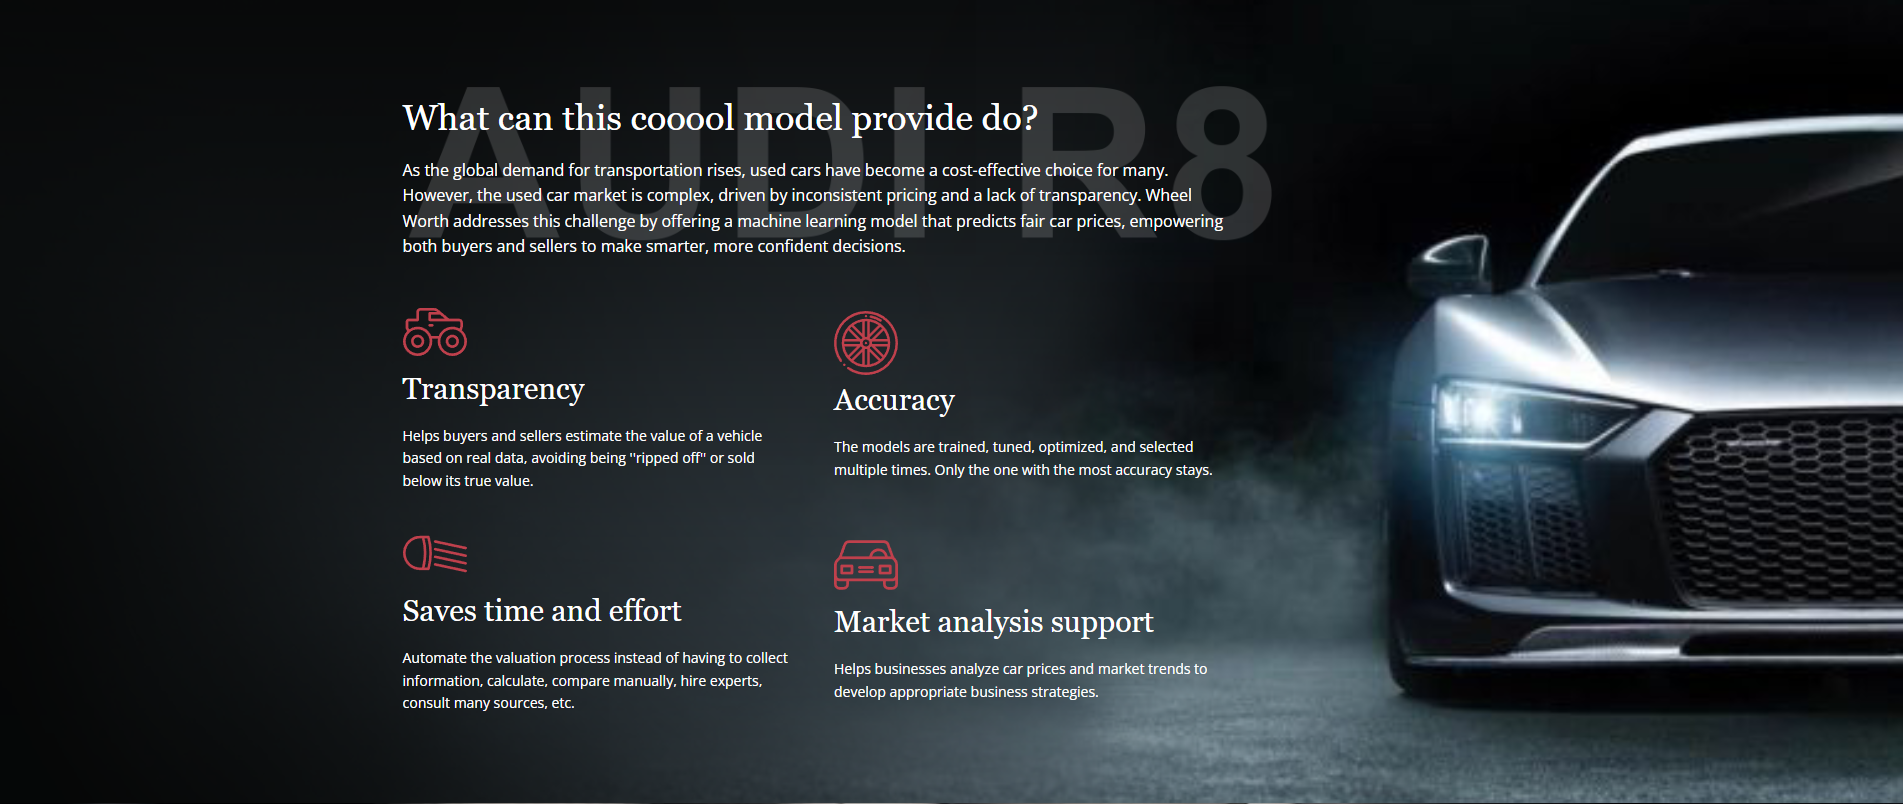
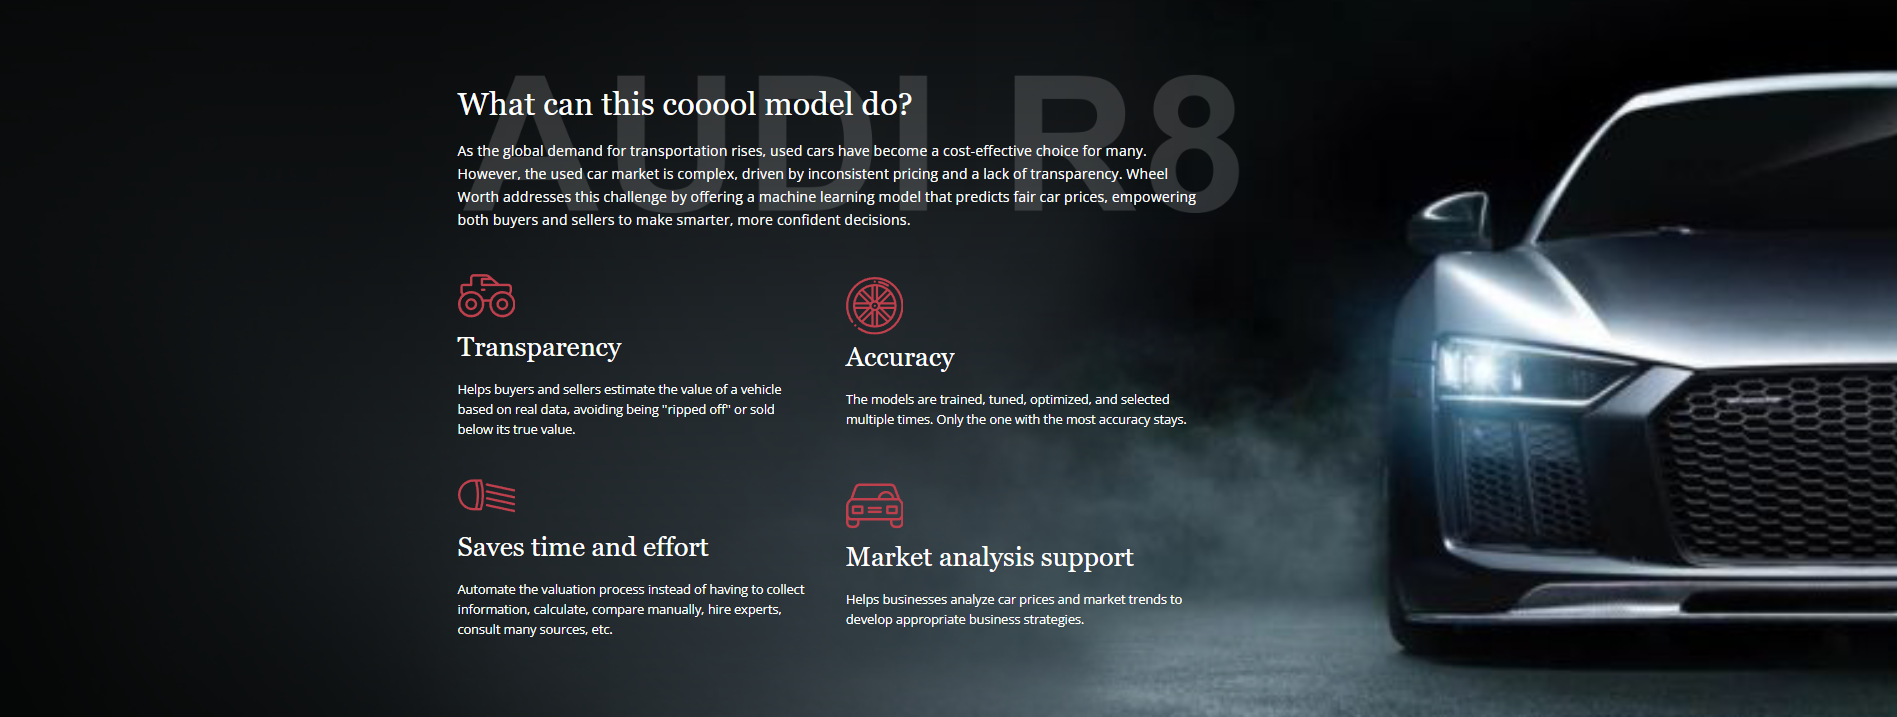
fix a typo

diff --git a/app/static/index.html b/app/static/index.html
@@ -347,7 +347,7 @@
                 <div class="u-container-style u-layout-cell u-left-cell u-right-cell u-size-60 u-layout-cell-5">
                   <div class="u-container-layout">
                     <h2 class="u-custom-font u-font-georgia u-text u-text-body-alt-color u-text-9">What can this cooool
-                      model provide do?</h2>
+                      model do?</h2>
                     <p class="u-text u-text-body-alt-color u-text-10">As the global demand for transportation rises,
                       used cars have become a cost-effective choice for many. However, the used car market is complex,
                       driven by inconsistent pricing and a lack of transparency. Wheel Worth addresses this challenge by
